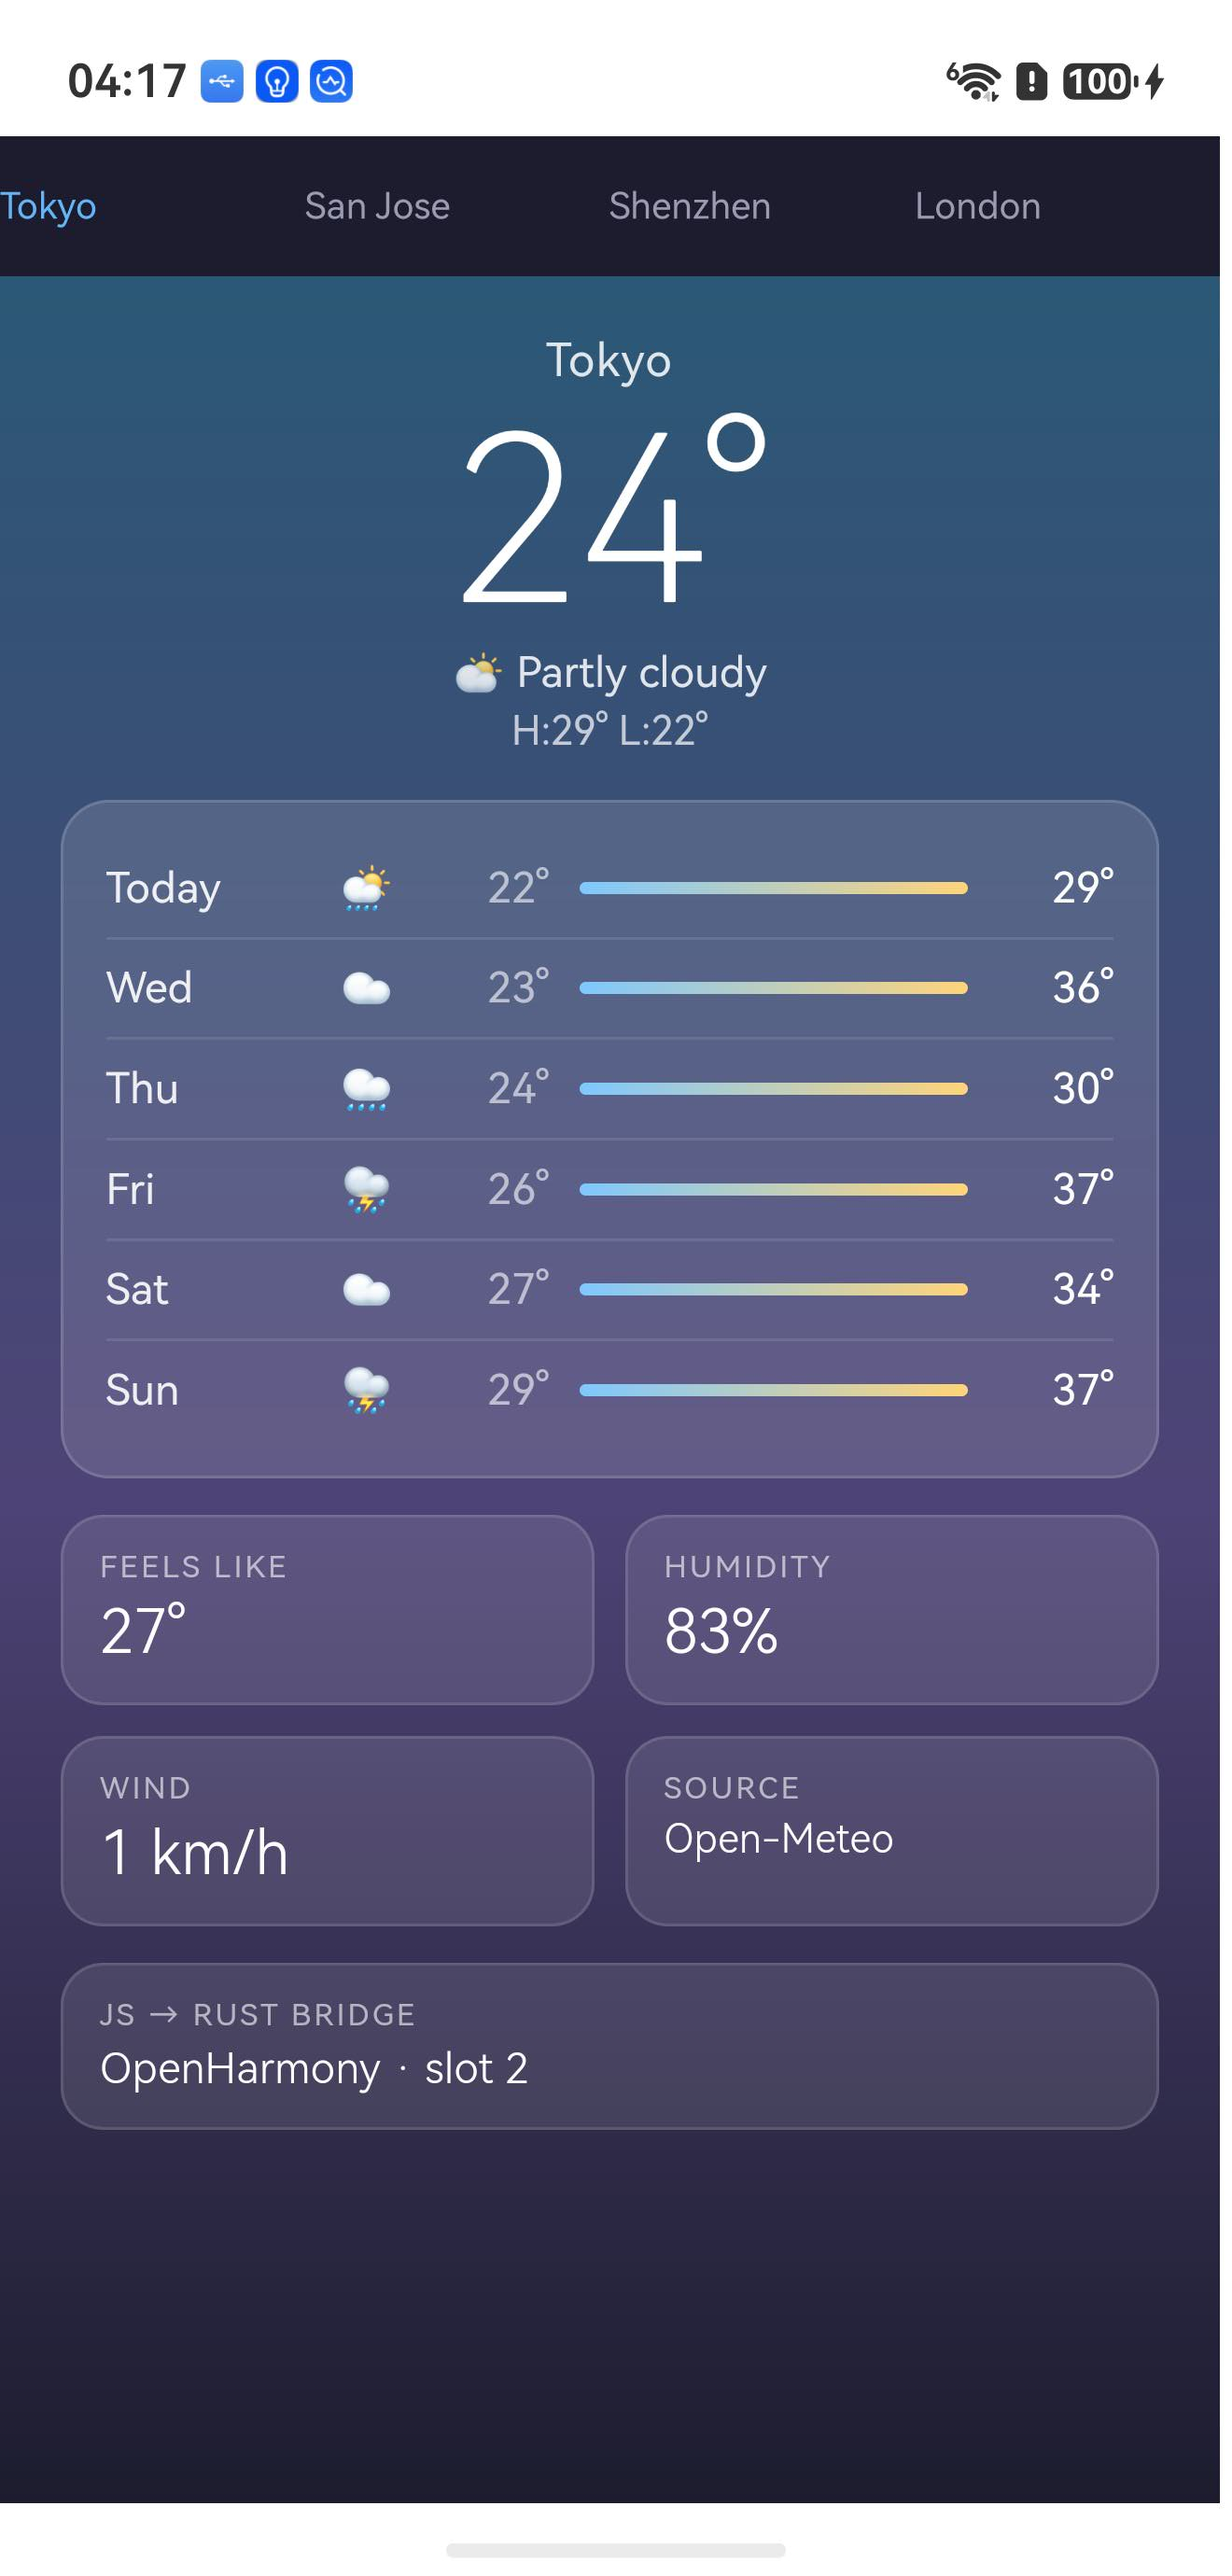
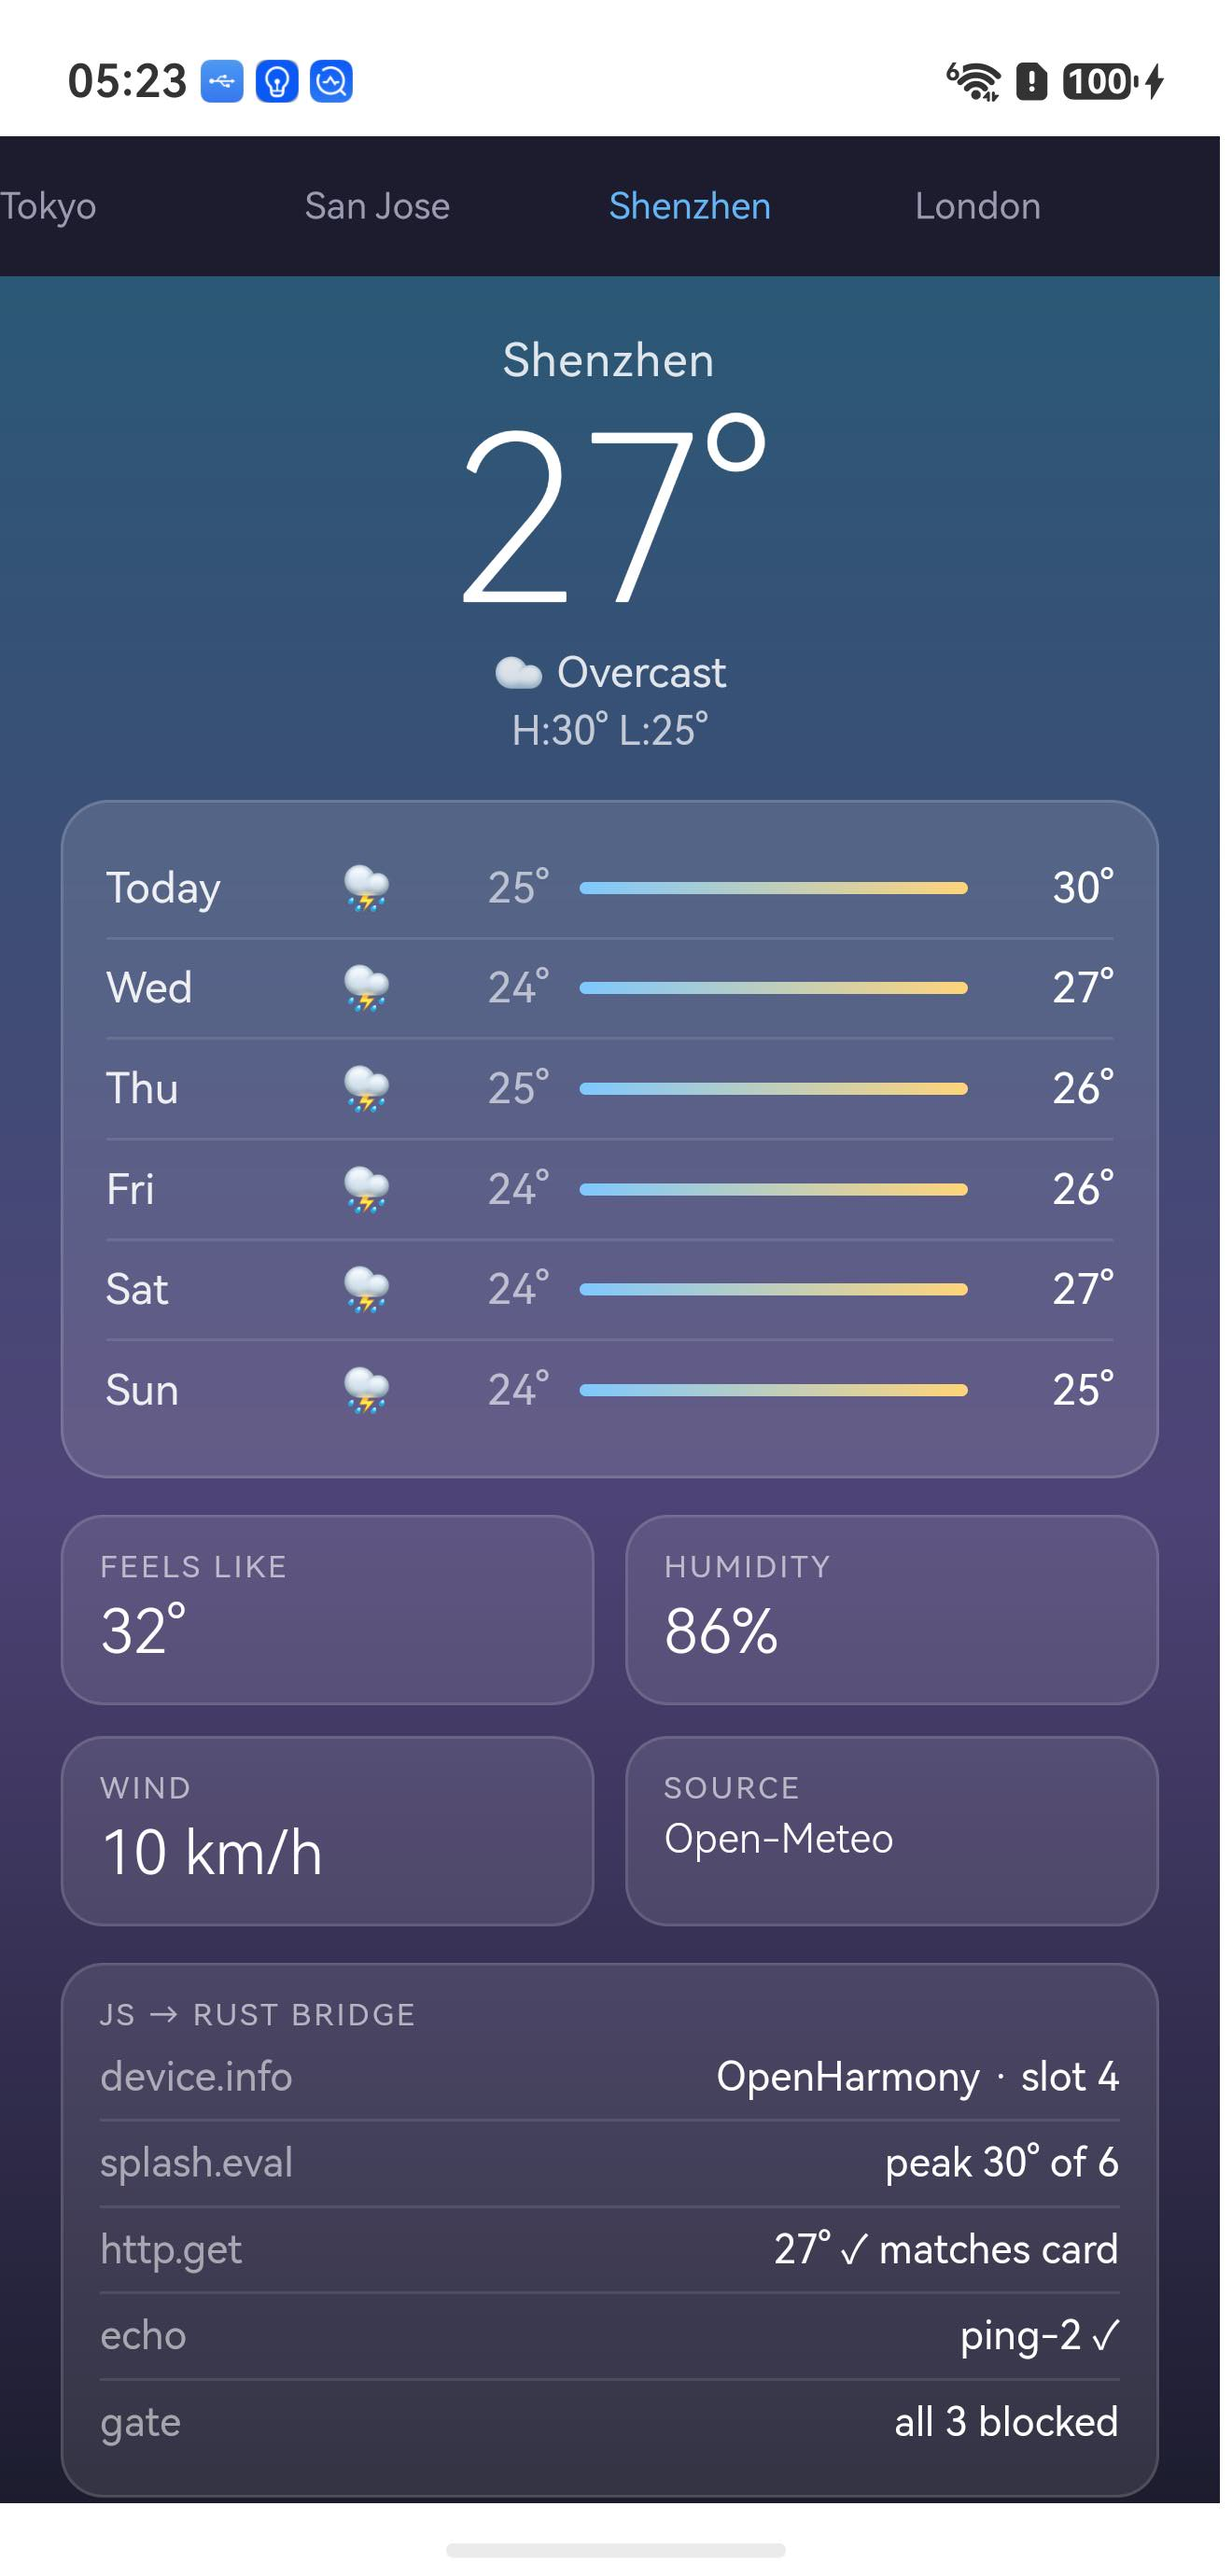
Cover the last bridge tool: log (#15)
Four of five tools had a passing test after the previous change; `log` still
only had a refusal. It has no visible result by design -- its entire effect is
a line in hilog -- so a row on the card could only ever report that the promise
settled, which is not the thing worth checking.

The page calls it with the city name and the verification is on the host:

  $ hdc shell hilog | grep 'page: card ready'
  page: card ready: Tokyo
  page: card ready: Tokyo
  page: card ready: Shenzhen

Twice for Tokyo because the page is regenerated when the forecast lands, once
for Shenzhen after the switch. That checks the side effect and that the
argument survived the crossing, rather than the acknowledgement.

diff --git a/crates/splash-oh/src/apps/weather_web.rs b/crates/splash-oh/src/apps/weather_web.rs
@@ -402,6 +402,16 @@ body{{width:{w:.0}px;height:{h:.0}px;overflow:hidden;
     }})
     .catch(function (e) {{ echoEl.textContent = 'FAILED: ' + e.message; }});
 
+  // `log` has no visible result by design -- its entire effect is a line in
+  // hilog, so a row on the card could only ever report that the promise
+  // settled, not that the logging happened. Called here so the last tool has a
+  // passing test at all; the check is on the host:
+  //
+  //   hdc shell hilog | grep 'page: card ready'
+  //
+  // which verifies the side effect rather than the acknowledgement.
+  splash.invoke('log', 'card ready: {name}');
+
   // The gate should refuse these three even from a trusted page. If any of
   // them succeeds, the allowlist or the SSRF guard has regressed.
   var gEl = document.getElementById('gate');
